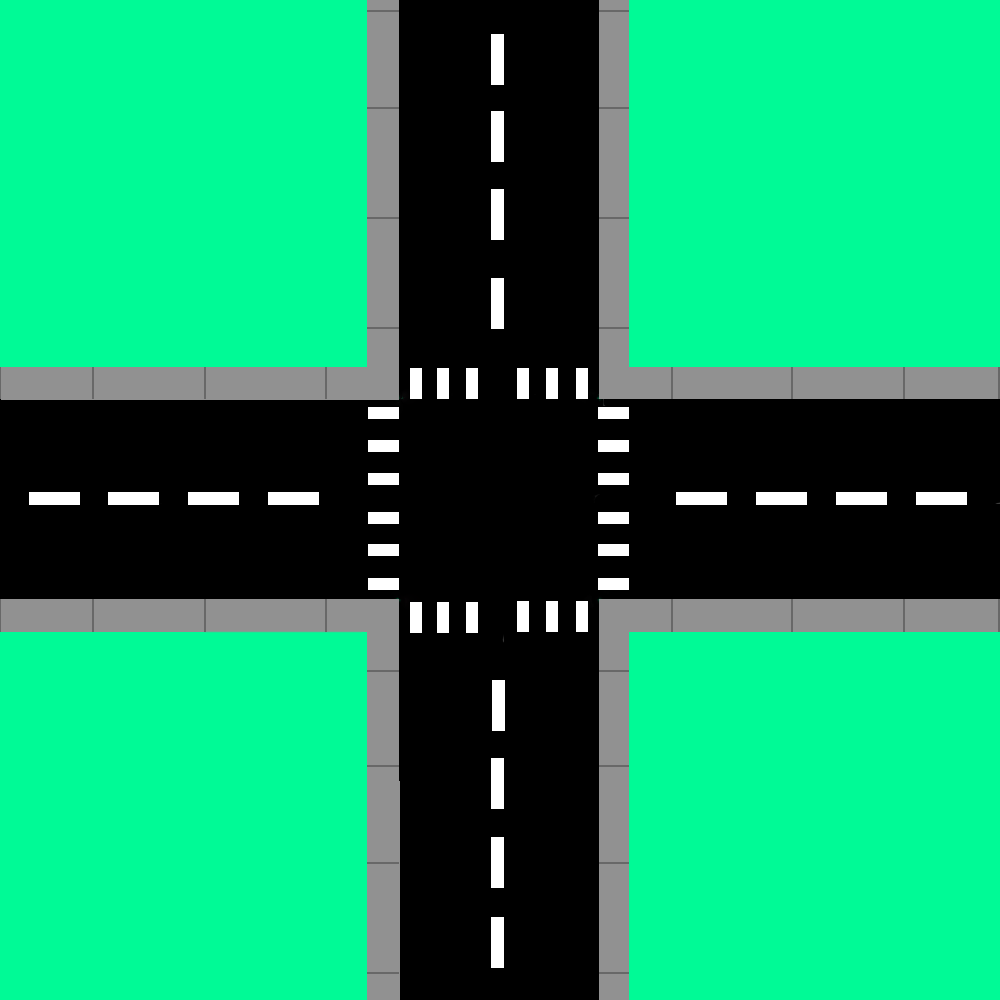
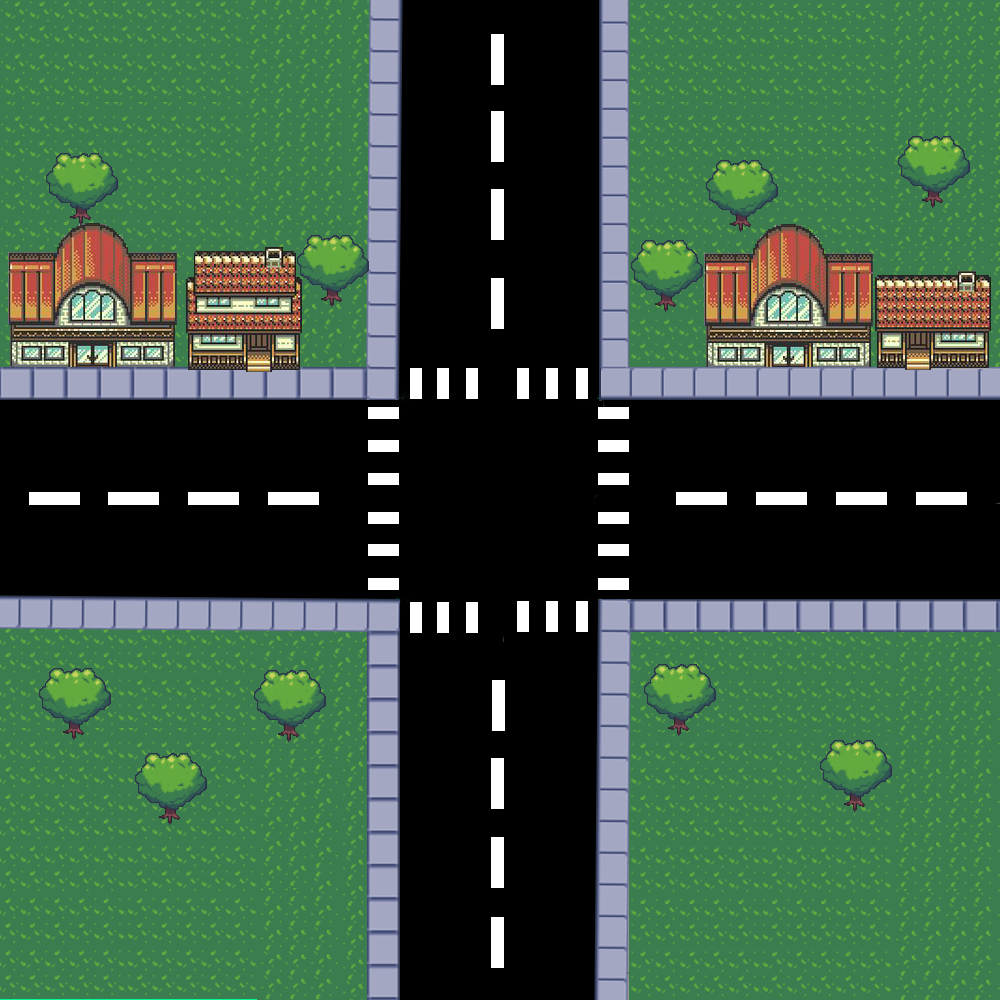
finished background + simplified move_forward()

diff --git a/src/XCar.java b/src/XCar.java
@@ -32,8 +32,23 @@ public class XCar extends JLabel implements Runnable{
         this.setLocation(x_axis, Y_AXIS);
         
     }
-
-    public void moveForward() {
+    /*improved move Forward method */
+      public void moveForward() throws InterruptedException{
+      	for (int i=4 ; i>=0;i--){
+      		mutex_x[i].acquire();
+      		if (i<4) mutex_x[i+1].release();
+      		while (x_axis > LIGHT_ACQUIRE+93*i) {
+                x_axis--;
+                this.setLocation(x_axis, Y_AXIS);
+                try {
+                    Thread.sleep(7);
+                } catch (InterruptedException e) {}
+            }
+                
+      	}
+     }
+     
+    /*public void moveForward() {
         try {
             mutex_x[4].acquire();
         } catch (InterruptedException e) {
@@ -65,7 +80,7 @@ public class XCar extends JLabel implements Runnable{
                 //TODO: handle exception
             }
         }
-    }
+    }*/
 
     public void crossIntersection() {
         mutex_x[0].release();
@@ -86,24 +101,21 @@ public class XCar extends JLabel implements Runnable{
             this.setLocation(x_axis, Y_AXIS);
             try {
                 Thread.sleep(7);
-            } catch (InterruptedException e) {
-                //TODO: handle exception
-            }
+            } catch (InterruptedException e) {}
         }
     }
 
 
     public void run() {
-        moveForward();
         try {
-            light_x.acquire();
+			moveForward();
+			light_x.acquire();
             crossIntersection();
             light_x.release();
-        } catch (InterruptedException e) {
-            // TODO Auto-generated catch block
-            e.printStackTrace();
-        }
-        keepMoving();
-        //this.destroy if exists
+            keepMoving();
+		} catch (InterruptedException e1) {
+			// TODO Auto-generated catch block
+			e1.printStackTrace();
+		}
     }
 }

diff --git a/src/YCar.java b/src/YCar.java
@@ -30,8 +30,22 @@ public class YCar extends JLabel implements Runnable {
         this.setLocation(X_AXIS, y_axis);
         
     }
-
-    public void moveForward() {
+    /*improved move Forward method */
+    public void moveForward() throws InterruptedException{
+    	for (int i=3 ; i>=0;i--){
+    		mutex_y[i].acquire();
+    		if (i<3) mutex_y[i+1].release();
+    		while (y_axis < LIGHT_ACQUIRE-78*i) {
+              y_axis++;
+              this.setLocation(X_AXIS, y_axis);
+              try {
+                  Thread.sleep(7);
+              } catch (InterruptedException e) {}
+          }
+              
+    	}
+   }
+    /*public void moveForward() {
 		try {
             mutex_y[3].acquire();
         } catch (InterruptedException e) {
@@ -63,7 +77,7 @@ public class YCar extends JLabel implements Runnable {
                 //TODO: handle exception
             }
         }
-    }
+    }*/
 
     public void crossIntersection() {
         mutex_y[0].release();
@@ -93,16 +107,12 @@ public class YCar extends JLabel implements Runnable {
     }
 
     public void run() {
-        moveForward();
         try {
+            moveForward();
             light_y.acquire();
             crossIntersection();
             light_y.release();
-        } catch (InterruptedException e) {
-            // TODO Auto-generated catch block
-            e.printStackTrace();
-        }
-        keepMoving();
-        //this.destroy if exists
+            keepMoving();
+        } catch (InterruptedException e) {}
     }
 }
